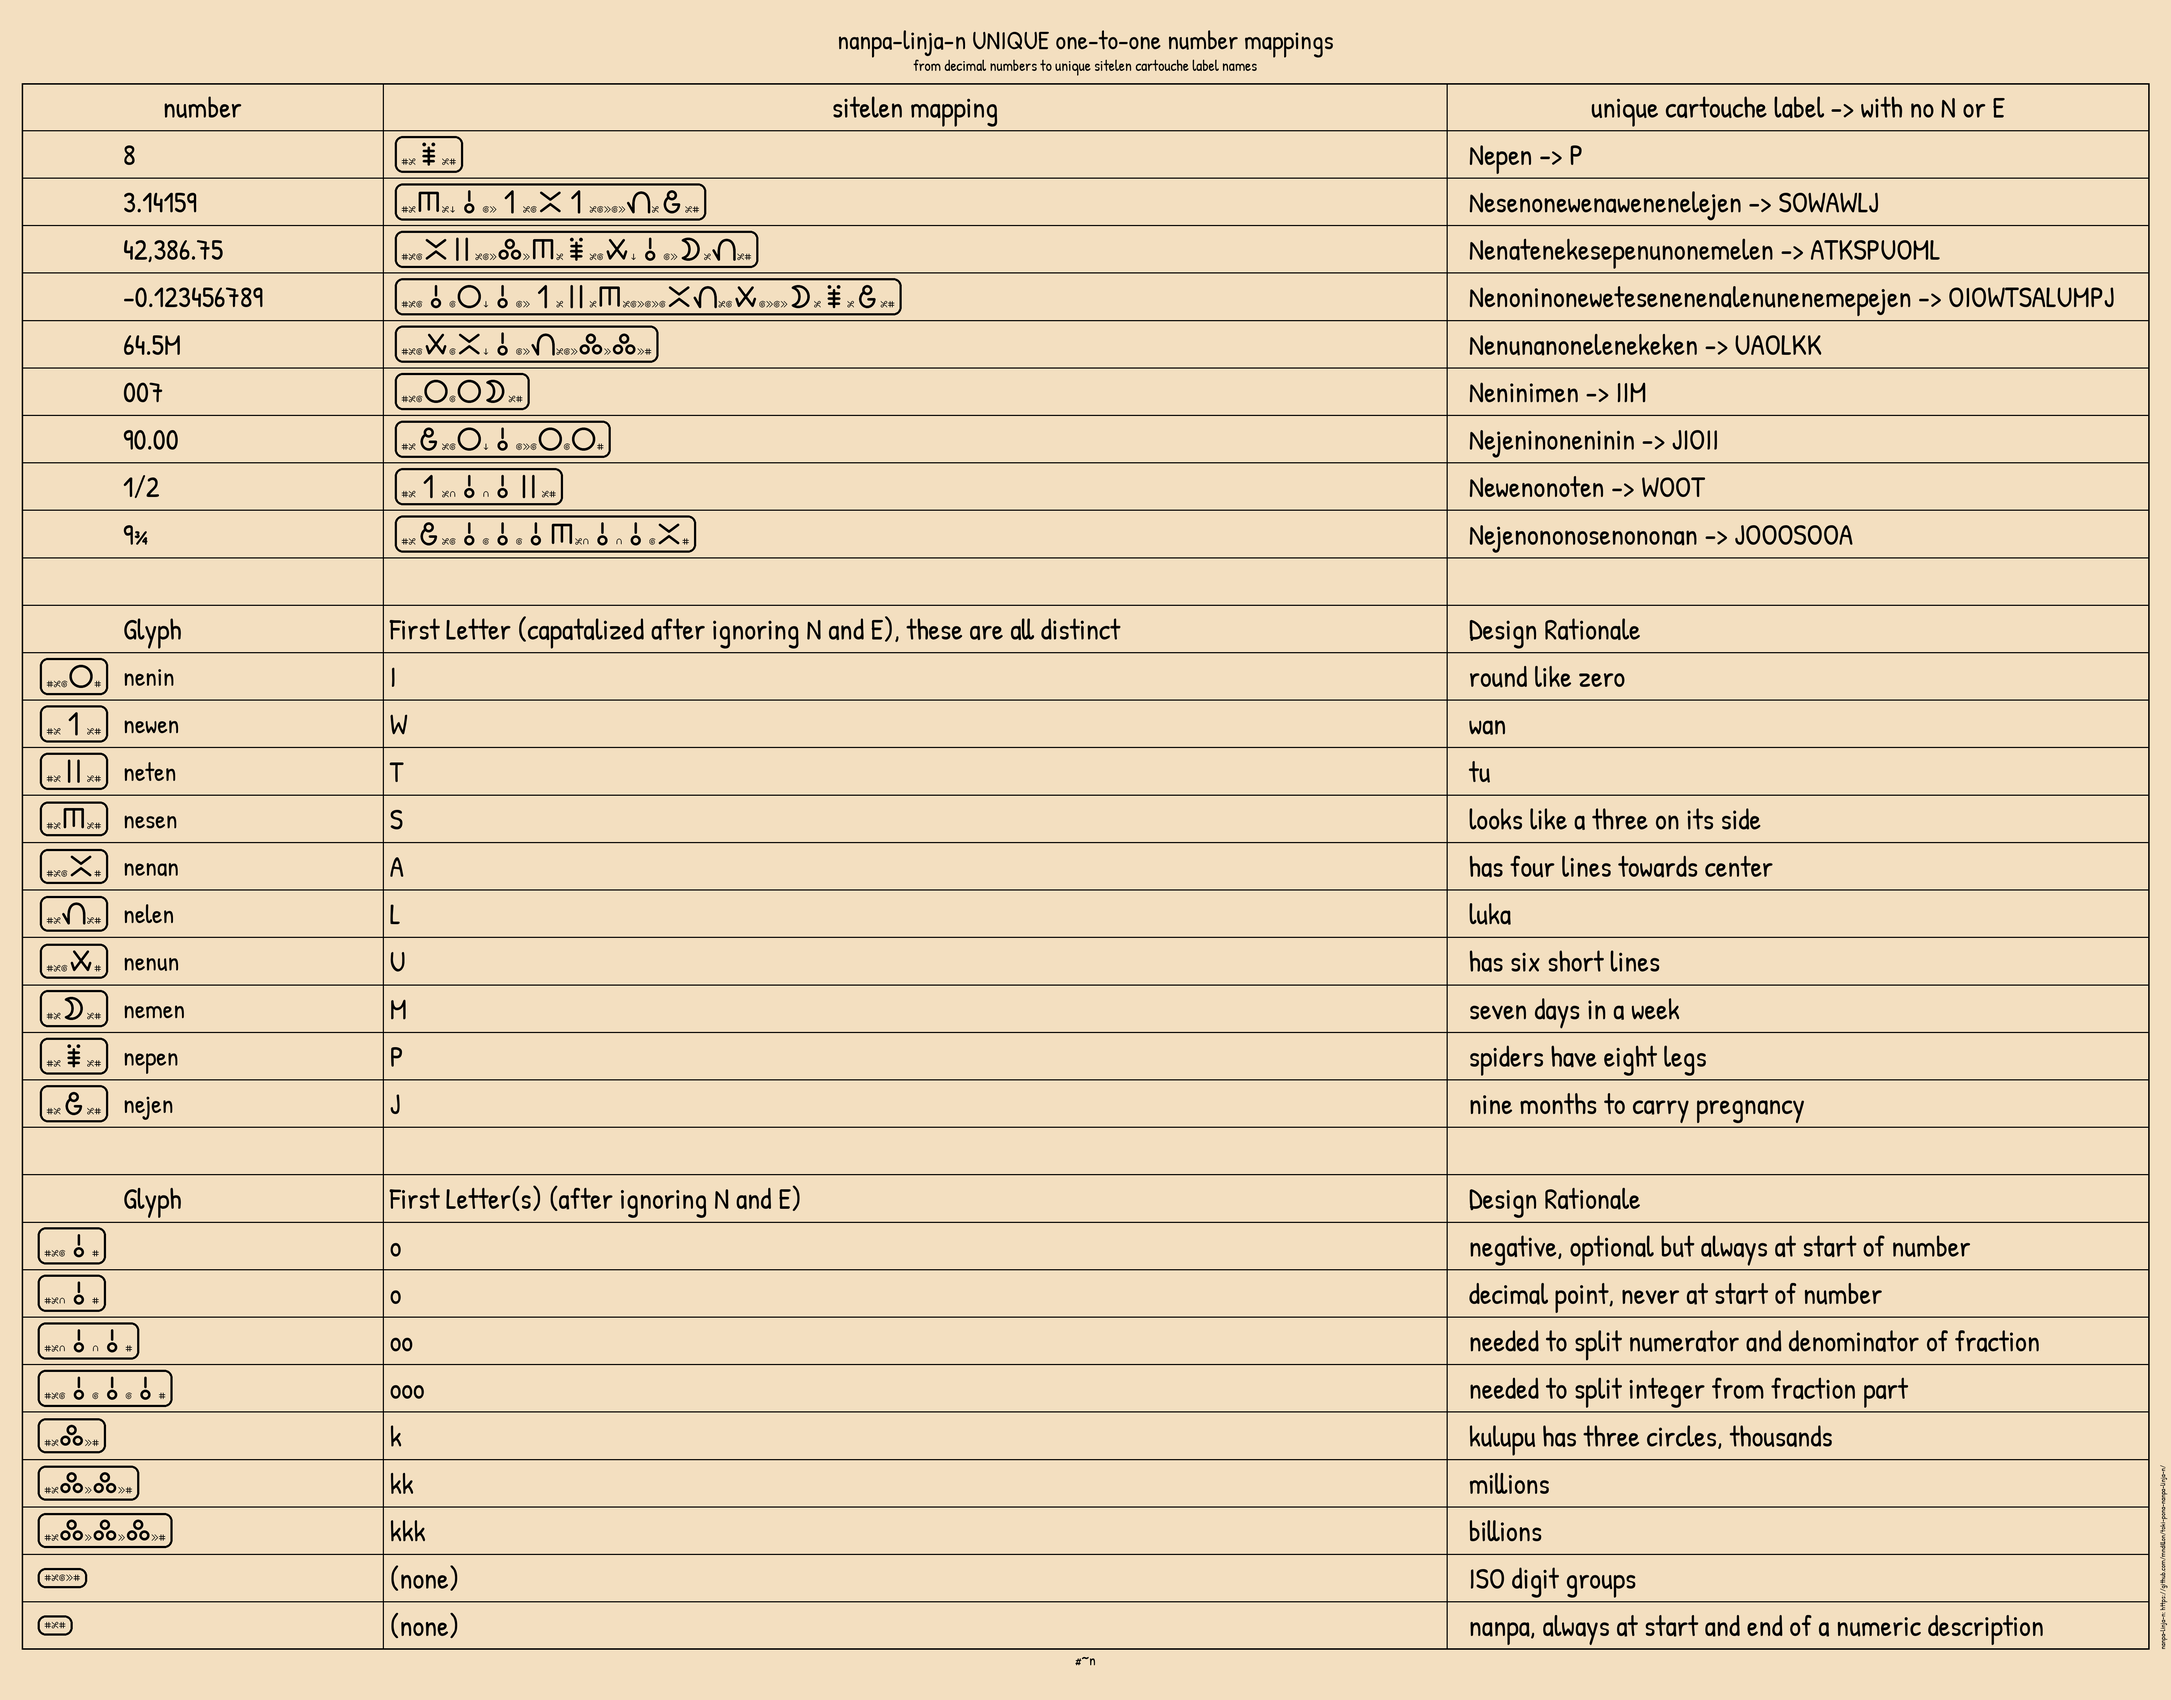
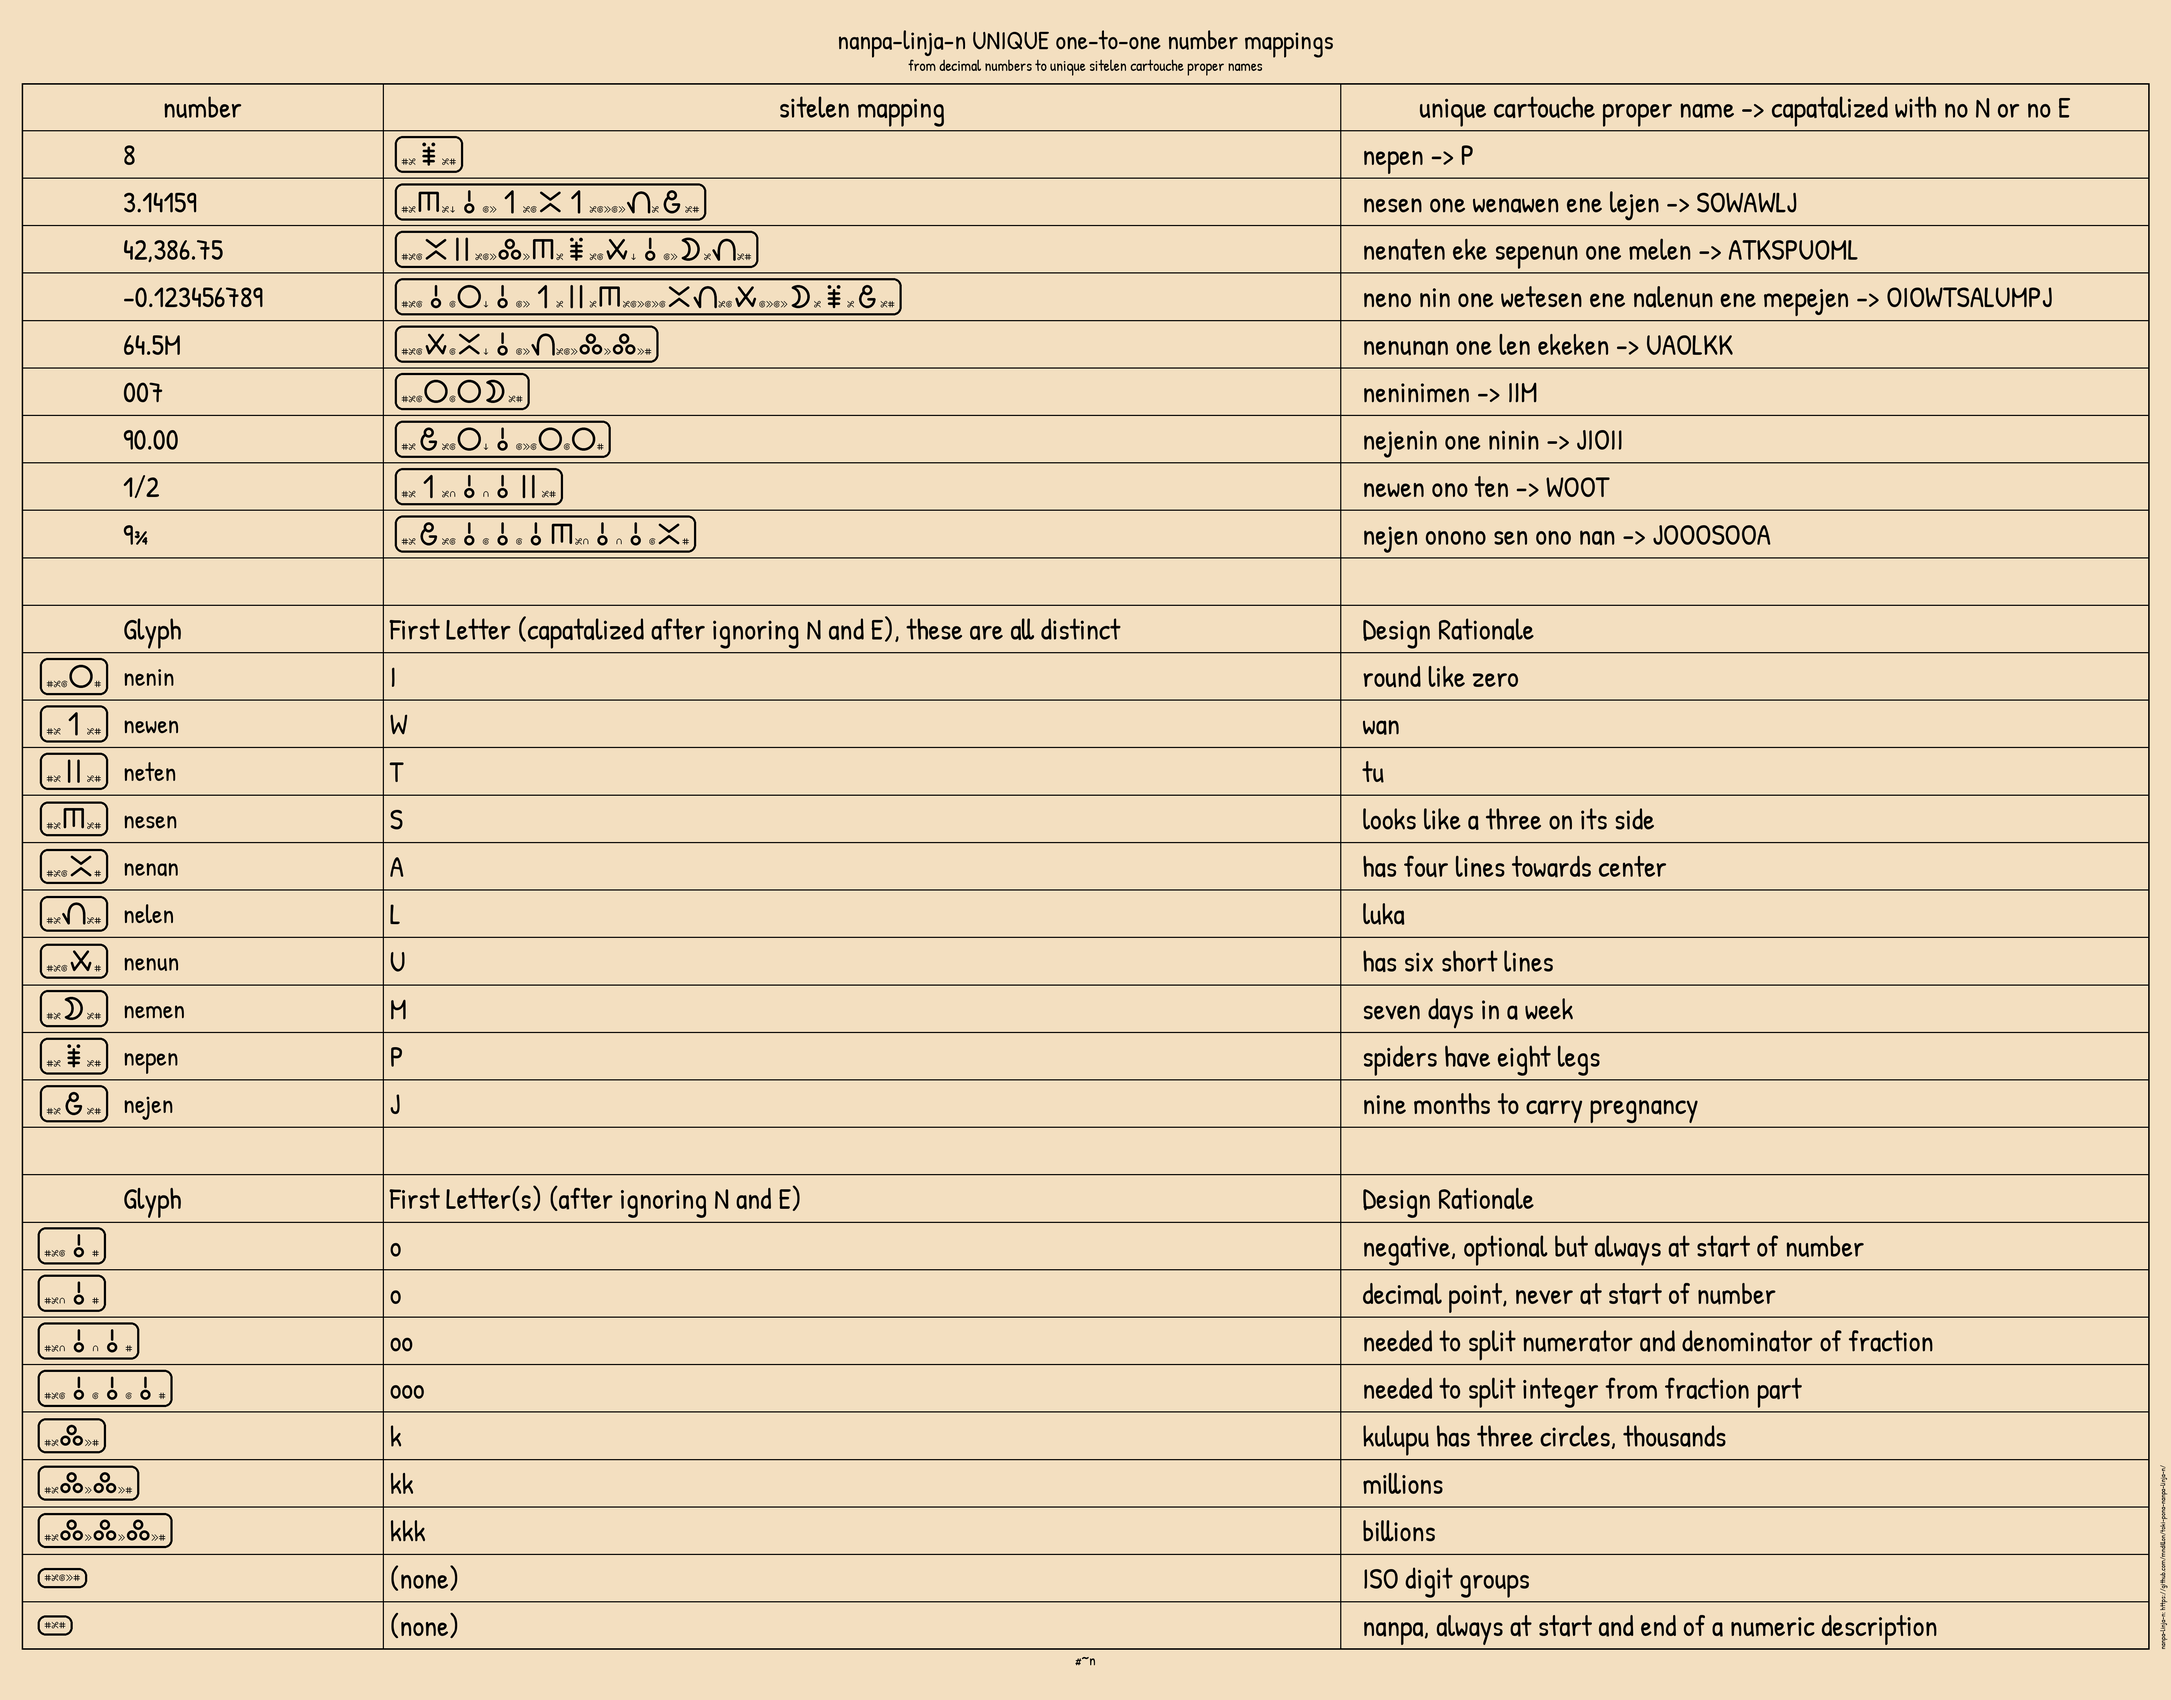
updated readme

diff --git a/README.md b/README.md
@@ -60,6 +60,27 @@ If we ignore 'n' and ignore 'e' in the words, then each digit word maps to a dif
 
 ---
 
+## sitelen pona digit cartouches
+
+| Glyph                                                             | Letter       | #~n Cartouche                                                               | #~n Proper Name | Design Rationale               |
+|-------------------------------------------------------------------|--------------|-----------------------------------------------------------------------------|-----------------|--------------------------------|
+| <img src="images/horizontal 0 nasin nanpa.png" width="32"/>       | I            | <img src="images/horizontal 0 nasin nanpa cartouche.png" width="64"/>       | nenin           | round like zero                |
+| <img src="images/horizontal 1 nasin nanpa.png" width="32"/>       | W            | <img src="images/horizontal 1 nasin nanpa cartouche.png" width="64"/>       | newen           | wan                            |
+| <img src="images/horizontal 2 nasin nanpa v2.png" width="32"/>    | T            | <img src="images/horizontal 2 nasin nanpa cartouche.png" width="64"/>       | neten           | tu                             |
+| <img src="images/horizontal 3 nasin nanpa v2.png" width="32"/>    | S            | <img src="images/horizontal 3 nasin nanpa cartouche.png" width="64"/>       | nesen           | looks like 3 on its side       |
+| <img src="images/horizontal 4 nasin nanpa v2.png" width="32"/>    | A            | <img src="images/horizontal 4 nasin nanpa cartouche.png" width="64"/>       | nenan           | has four lines towards center  |
+| <img src="images/horizontal 5 nasin nanpa.png" width="32"/>       | L            | <img src="images/horizontal 5 nasin nanpa cartouche.png" width="64"/>       | nelen           | luka                           |
+| <img src="images/horizontal 6 nasin nanpa v2.png" width="32"/>    | U            | <img src="images/horizontal 6 nasin nanpa cartouche.png" width="64"/>       | nenun           | has six short lines            |
+| <img src="images/horizontal 7 nasin nanpa v3.png" width="32"/>    | M            | <img src="images/horizontal 7 nasin nanpa cartouche.png" width="64"/>       | nemen           | seven days in week             |
+| <img src="images/horizontal 8 nasin nanpa v3.png" width="32"/>    | P            | <img src="images/horizontal 8 nasin nanpa cartouche.png" width="64"/>       | nepen           | spiders have eight legs        |
+| <img src="images/horizontal 9 nasin nanpa v2.png" width="32"/>    | J            | <img src="images/horizontal 9 nasin nanpa cartouche.png" width="64"/>       | nejen           | nine months to carry pregnancy |
+
+Sitelen Cartouche Summary:
+
+<img src="images/nanpa_linja_n_examples_with_rationale_fact_sheet.png" width="760"/>
+
+---
+
 ## General Number Rule
 Applies to all numbers no matter what form they take:
 
@@ -333,53 +354,43 @@ Examples:
 ### sitelen pona
 - **nanpa-linja-n** numeric glyphs are always presented inside a cartouche and always starting with the nanpa glyph
 - the digit names were selected so that the glyphs would suggest the decimal value and so that all digits map to distinct unique letters
-- the nanpa glyph will never be found anywhere else except at the start and end of a nanpa-linja-n number
-- there is a **UNIQUE** one-to-one mapping from numbers to cartouche "labels"
-  - all the digits and separators are mapped to separate letters (see tables below)
-  - when a cartouche starts with a nanpa glyph and all the glyphs in the cartouche belong to the set below, then we interpret the cartouche as a nanpa-linja-n number
-  - when writing down the word from the cartouche, we will write it out as all capitals, so we can easily see that it encodes a number
-    - a nanpa-linja-n literal string of **nenOnInOneWeTeSenenenALenUneneMePeJen**, can be decoded as **-0.123456789**
+- there is a **UNIQUE** one-to-one mapping from numbers to cartouche proper names
+  - all the digits and delimiters are mapped to separate letters
+  - when writing down the proper name from the cartouche, we will add spaces at decimal delimiters, for ease of reading long proper names
+    - the proper name of **neno nin one wetesen ene nalenun ene mepejen**, can be decoded as **-0.123456789**
       - <img src="images/number_negative_decimal_digits_glyph.png" width="320"/>
-    - a nanpa-linja-n literal string of **neJenOnOnOSenOnOnAn**, can be decoded as **9¾**
+    - the proper name of **nejen onono sen ono nan**, can be decoded as **9¾**
       - <img src="images/number_9_fraction_three_quarters_glyph.png" width="160"/>
-    - a nanpa-linja-n literal string of **nenATeneKeSePenUnOneMeLen**, can be decoded as **42,386.75**
+    - the proper name of **nenaten eke sepenun one melen**, can be decoded as **42,386.75**
       - <img src="images/number_42386_75_glyph_v8.png" width="320"/>
-    - a nanpa-linja-n literal string of **nenUnAnOneLeneKeKen**, can be decoded as **64.5M**
+    - the proper name of **nenunan one len ekeken**, can be decoded as **64.5M**
       - <img src="images/number_64_5_M_glyph_v9.png" width="160"/>
 - can be displayed horizontally or vertically
-- We will reuse existing glyphs (and think of them as having extra names in the context of **nanpa-linja-n** cartouches), all letters will be written out in capitals:
-  - there already exist glyphs in pu that have more than one name (we are just adding extra names to more existing glyphs to map to this decimal system)
-  - the brackets in these examples are just to depict the cartouche (and not written down):
-  - 17 → (neWeMen) → newemen
-  - 2,860 → (neTeneKePenAnIn) → neten eke penanin
-  - 3.14159 → (neSenOneWenAWeneneLeJen) → nesen one wenawen ene lejen
-  - the number 3 → (neSen) → nesen
-  - the third → nanpa (written outside of cartouche) (neSen) → nanpa nesen
 
-| Glyph                                                             | Letter       | #~n Name    | Design Rationale               |
-|-------------------------------------------------------------------|--------------|-------------|--------------------------------|
-| <img src="images/horizontal 0 nasin nanpa.png" width="32"/>       | I            | nenin       | round like zero                |
-| <img src="images/horizontal 1 nasin nanpa.png" width="32"/>       | W            | newen       | wan                            |
-| <img src="images/horizontal 2 nasin nanpa v2.png" width="32"/>    | T            | neten       | tu                             |
-| <img src="images/horizontal 3 nasin nanpa v2.png" width="32"/>    | S            | nesen       | looks like 3 on its side       |
-| <img src="images/horizontal 4 nasin nanpa v2.png" width="32"/>    | A            | nenan       | has four lines towards center  |
-| <img src="images/horizontal 5 nasin nanpa.png" width="32"/>       | L            | nelen       | luka                           |
-| <img src="images/horizontal 6 nasin nanpa v2.png" width="32"/>    | U            | nenun       | has six short lines            |
-| <img src="images/horizontal 7 nasin nanpa v3.png" width="32"/>    | M            | nemen       | seven days in week             |
-| <img src="images/horizontal 8 nasin nanpa v3.png" width="32"/>    | P            | nepen       | spiders have eight legs        |
-| <img src="images/horizontal 9 nasin nanpa v2.png" width="32"/>    | J            | nejen       | nine months to carry pregnancy |
+| Glyph                                                             | Letter       | #~n Cartouche                                                               | #~n Proper Name | Design Rationale               |
+|-------------------------------------------------------------------|--------------|-----------------------------------------------------------------------------|-----------------|--------------------------------|
+| <img src="images/horizontal 0 nasin nanpa.png" width="32"/>       | I            | <img src="images/horizontal 0 nasin nanpa cartouche.png" width="64"/>       | nenin           | round like zero                |
+| <img src="images/horizontal 1 nasin nanpa.png" width="32"/>       | W            | <img src="images/horizontal 1 nasin nanpa cartouche.png" width="64"/>       | newen           | wan                            |
+| <img src="images/horizontal 2 nasin nanpa v2.png" width="32"/>    | T            | <img src="images/horizontal 2 nasin nanpa cartouche.png" width="64"/>       | neten           | tu                             |
+| <img src="images/horizontal 3 nasin nanpa v2.png" width="32"/>    | S            | <img src="images/horizontal 3 nasin nanpa cartouche.png" width="64"/>       | nesen           | looks like 3 on its side       |
+| <img src="images/horizontal 4 nasin nanpa v2.png" width="32"/>    | A            | <img src="images/horizontal 4 nasin nanpa cartouche.png" width="64"/>       | nenan           | has four lines towards center  |
+| <img src="images/horizontal 5 nasin nanpa.png" width="32"/>       | L            | <img src="images/horizontal 5 nasin nanpa cartouche.png" width="64"/>       | nelen           | luka                           |
+| <img src="images/horizontal 6 nasin nanpa v2.png" width="32"/>    | U            | <img src="images/horizontal 6 nasin nanpa cartouche.png" width="64"/>       | nenun           | has six short lines            |
+| <img src="images/horizontal 7 nasin nanpa v3.png" width="32"/>    | M            | <img src="images/horizontal 7 nasin nanpa cartouche.png" width="64"/>       | nemen           | seven days in week             |
+| <img src="images/horizontal 8 nasin nanpa v3.png" width="32"/>    | P            | <img src="images/horizontal 8 nasin nanpa cartouche.png" width="64"/>       | nepen           | spiders have eight legs        |
+| <img src="images/horizontal 9 nasin nanpa v2.png" width="32"/>    | J            | <img src="images/horizontal 9 nasin nanpa cartouche.png" width="64"/>       | nejen           | nine months to carry pregnancy |
 
 
 - the table below has some other delimiters used in numeric expressions inside cartouches:
-- the table has some duplicate letters, but the letter placements will determine how the letter is interpreted:
-  - N is duplicated
+- the table has some repeating letters, but the letter placements will determine how the letter is interpreted:
+  - N is repeated
     - ne at start is always nanpa
     - no after Ne (depicted with ni) represents negative
     - ene after anything else (depicted with ni) represents an ISO break
-  - K is duplicated
+  - K is repeated
     - ke can repeat but that maps to repeated kulupu representing thousands, millions, billions
     - ke can be repeated many times to show any number of 000 groups at the end of a number
-  - O is duplicated
+  - O is repeated
     - one by itself represents the decimal point
     - ono doubled represents the delimiter between numerator and denominator of a fraction
     - onono tripled represents the delimiter between integer part and fraction part of a number (when integers have additional fraction parts)
@@ -397,9 +408,7 @@ Examples:
 | <img src="images/horizontal Number Symbol nasin nanpa.png" width="16"/>                        | N            | ne                        | nanpa, always at start and end of numeric description |
 
 
-Sitelen Glyph Summary:
 
-<img src="images/nanpa_linja_n_examples_with_rationale_fact_sheet.png" width="760"/>
 
 
 
